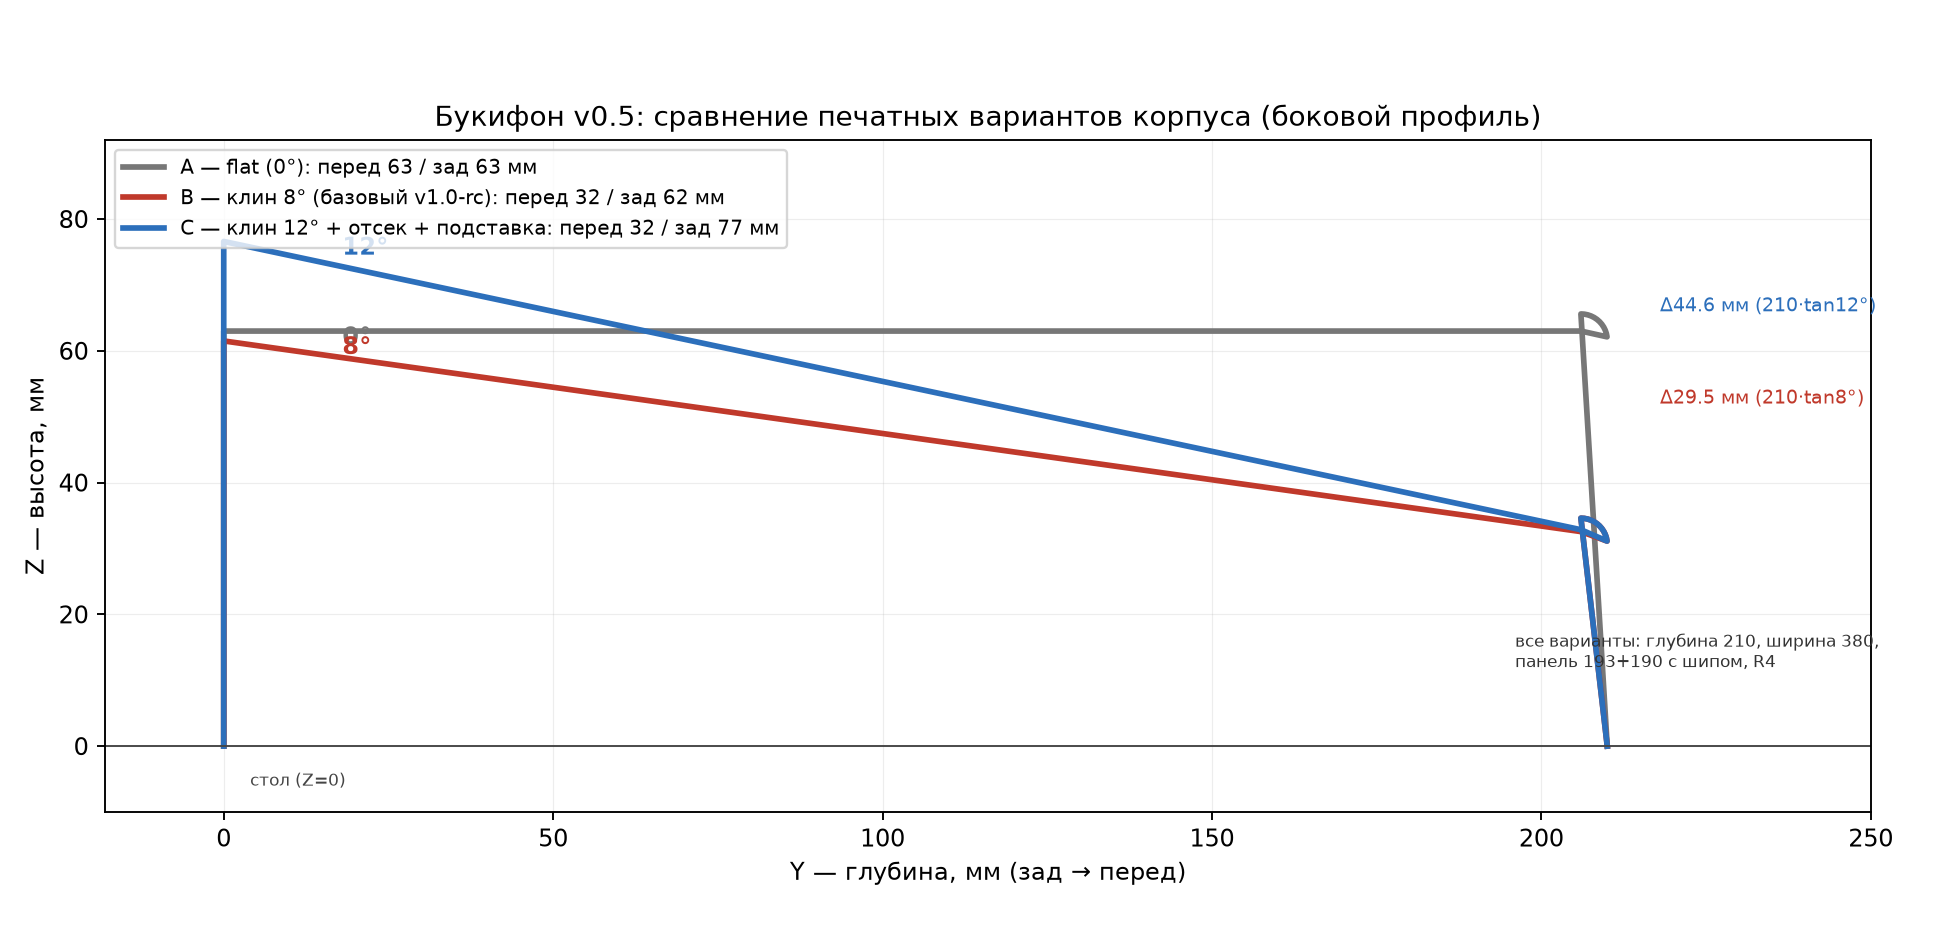
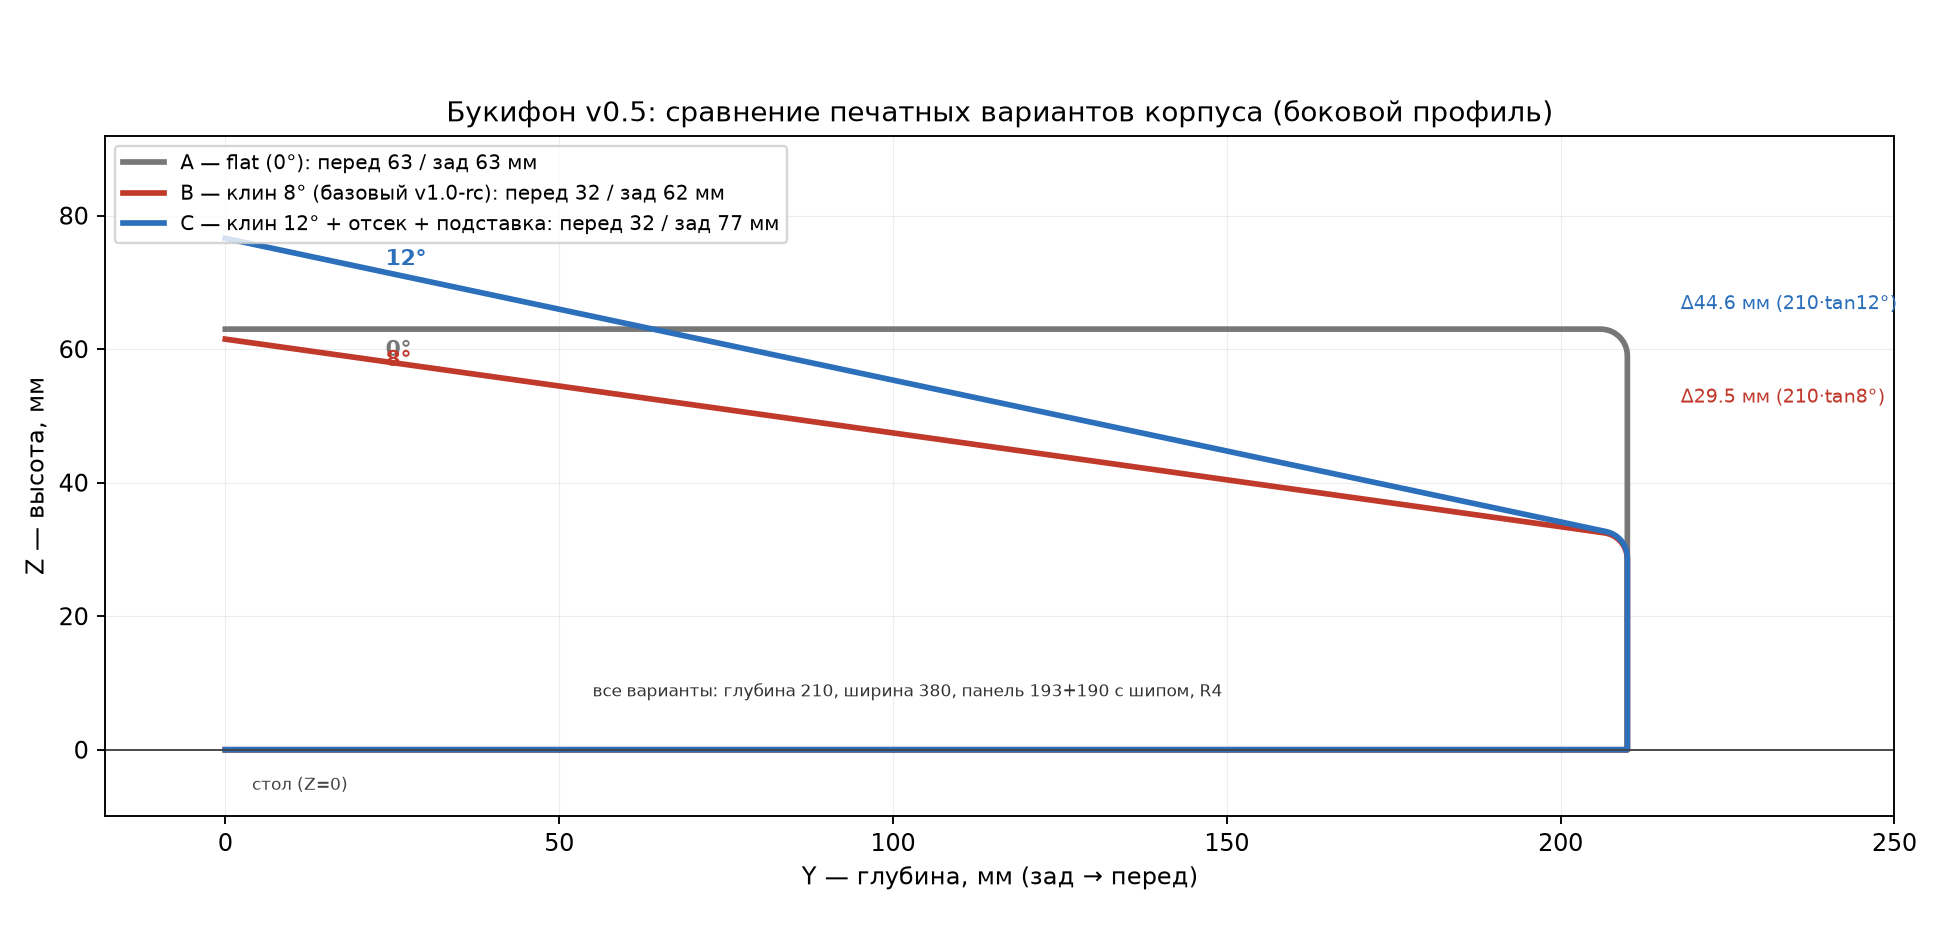
hw(core2): rev.3 план (RGB565/DSI, fallback H743), TP28–TP30 в схеме, ERC 0/0; docs/43 bring-up; display selection docs/47 (HotLCD ST7262 40-pin) + BOM/29; PWR bench BOM $102.92 + docs/44

diff --git a/mechanical/generator/make_variant_compare.py b/mechanical/generator/make_variant_compare.py
@@ -24,18 +24,16 @@ VARIANTS = [
 
 
 def contour(front, rear, r=4.0):
-    pts = [(0.0, 0.0)]
-    if abs(rear - front) > 0.1:
-        # наклонная верхняя линия с фаской R4 у передней кромки
-        pts += [(0.0, rear), (DEPTH - r, front + r * (rear - front) / DEPTH)]
-    else:
-        pts += [(0.0, rear), (DEPTH - r, front)]
-    # дуга R4: от верхней линии к передней стенке
-    cx, cy = DEPTH - r, front - r * 0.35
+    """Профиль: низ → передняя стенка с фаской R4 → верхняя линия → задняя стенка."""
+    k = (rear - front) / DEPTH
+    zc = front + r * k - r * math.sqrt(1.0 + k * k)
+    cx, cy = DEPTH - r, zc
+    a_end = math.pi / 2 - math.atan(k)
+    pts = [(0.0, 0.0), (DEPTH, 0.0), (DEPTH, zc)]
     for i in range(1, 13):
-        a = math.pi / 2 * i / 12
+        a = a_end * i / 12
         pts.append((cx + r * math.cos(a), cy + r * math.sin(a)))
-    pts += [(DEPTH, 0.0)]
+    pts.append((0.0, rear))
     return pts
 
 
@@ -45,7 +43,7 @@ def main():
         pts = contour(front, rear)
         ax.plot([p[0] for p in pts], [p[1] for p in pts], color=color, lw=2.4, ls=ls,
                 label=f"{label}: перед {front:.0f} / зад {rear:.0f} мм")
-        ax.annotate(f"{ang:.0f}°", xy=(18, rear - 2.0), fontsize=10, color=color,
+        ax.annotate(f"{ang:.0f}°", xy=(24, rear - 4.0), fontsize=9.5, color=color,
                     fontweight="bold")
     ax.axhline(0, color="#444", lw=0.8)
     ax.text(4, -6, "стол (Z=0)", fontsize=7, color="#444")
@@ -61,7 +59,7 @@ def main():
                 color="#c0392b")
     ax.annotate("Δ44.6 мм (210·tan12°)", xy=(208, 54), xytext=(218, 66), fontsize=8,
                 color="#2c6fbb")
-    ax.text(196, 12, "все варианты: глубина 210, ширина 380,\nпанель 193+190 с шипом, R4",
+    ax.text(55, 8, "все варианты: глубина 210, ширина 380, панель 193+190 с шипом, R4",
             fontsize=7.2, color="#333")
     fig.tight_layout()
     fig.savefig(OUT)

diff --git a/firmware/src/factory/selftest.cpp b/firmware/src/factory/selftest.cpp
@@ -530,7 +530,7 @@ int factoryCliMain(int argc, char** argv, Hardware& hardware, std::FILE* out) {
     std::fprintf(out, " #  test                status   time/nominal  detail\n");
     for (uint8_t i = 0; i < report.count; ++i) {
       const TestResult& test = report.tests[i];
-      std::fprintf(out, "%2u  %-18s  %-7s %5u/%-5u  %s\n", static_cast<unsigned>(test.id + 1),
+      std::fprintf(out, "%2u  %-18s  %-7s %5u/%-5u  %s\n", static_cast<unsigned>(static_cast<int>(test.id) + 1),
                    testName(test.id), statusName(test.status),
                    static_cast<unsigned>(test.durationMs), static_cast<unsigned>(test.nominalMs),
                    test.detail);
